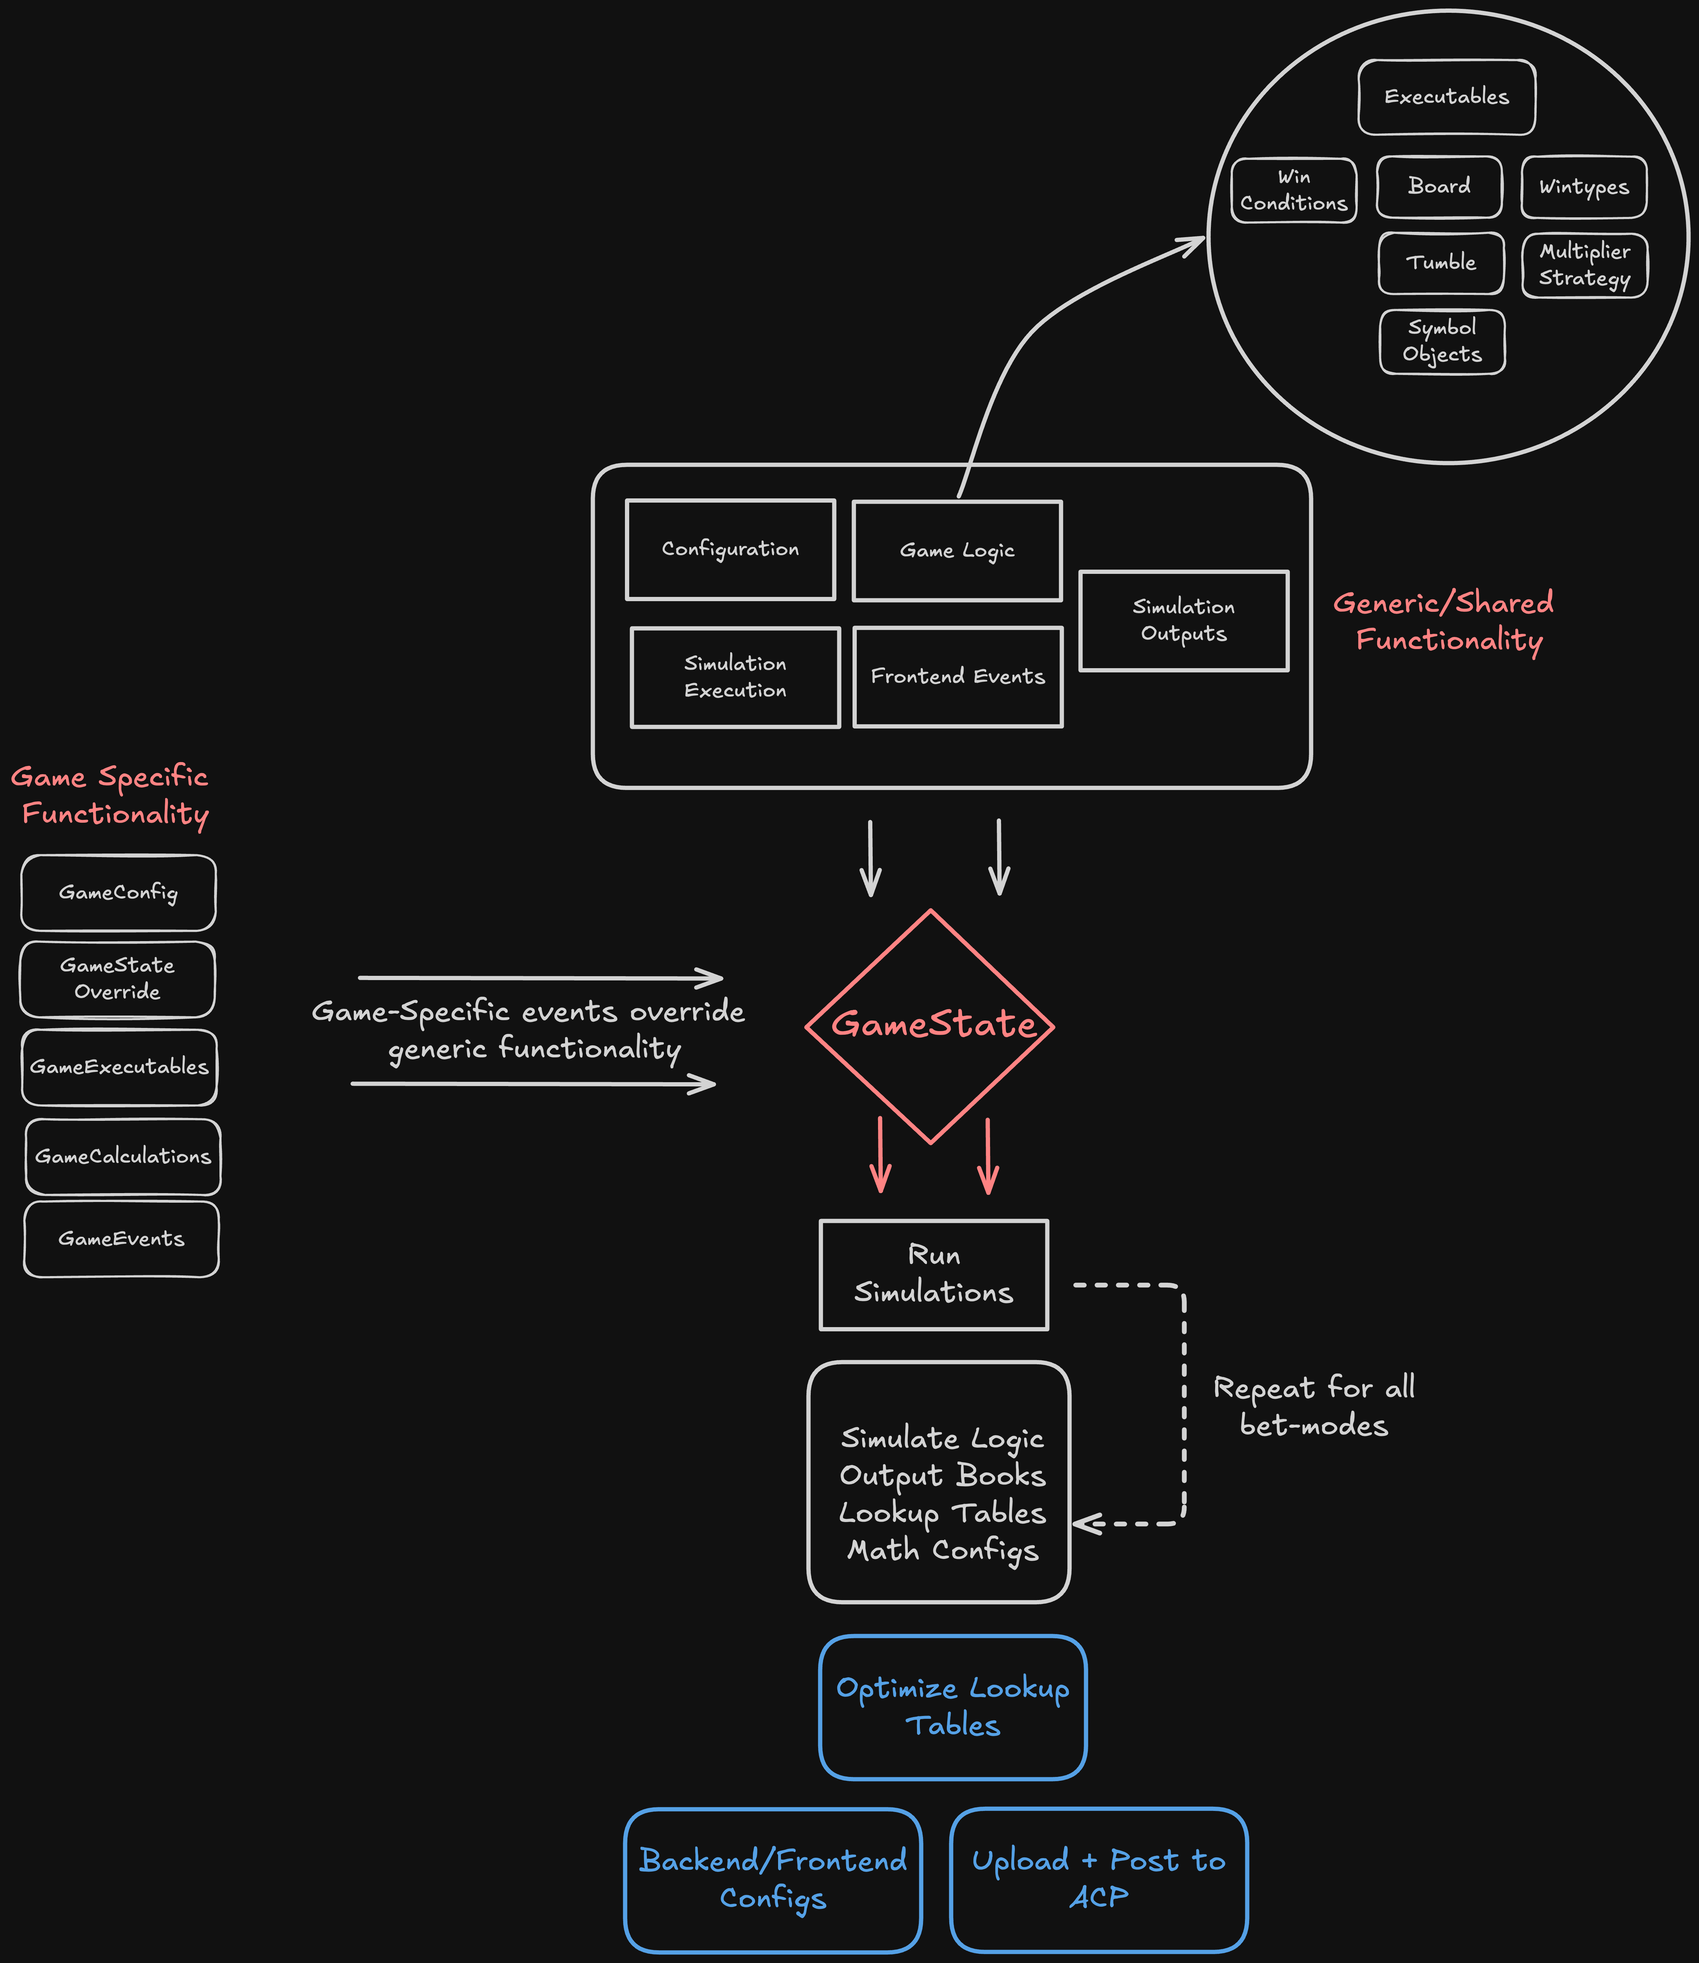
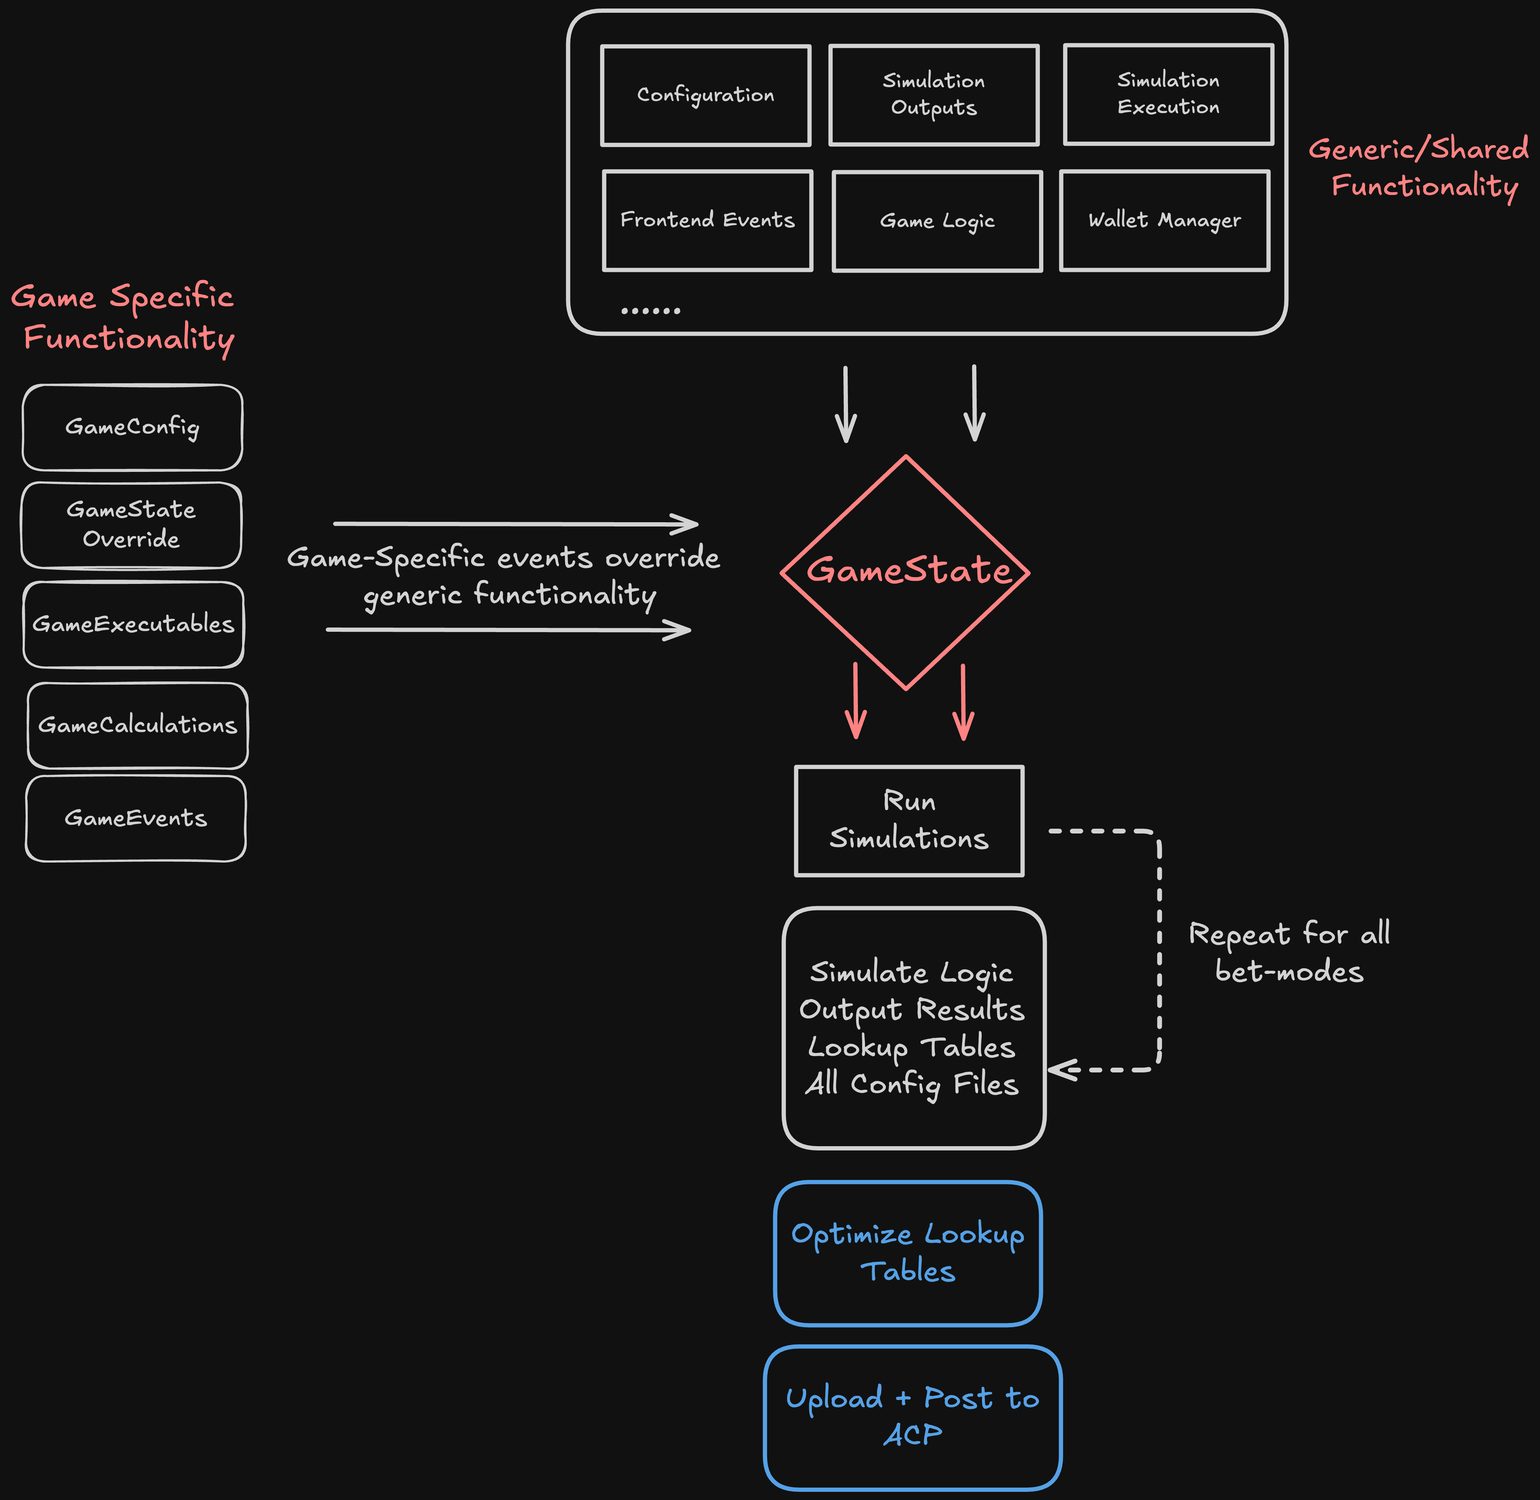
update docs links

diff --git a/utils/decompress_zstd.py b/utils/decompress_zstd.py
@@ -26,5 +26,5 @@ def decompress(input_path: str):
 
 if __name__ == "__main__":
 
-    test_file = "games/0_0_lines/library/books_compressed/books_base.jsonl.zst"
+    test_file = "games/gray/books_compressed/books_Tiki_96.jsonl.zst"
     decompress(test_file)

diff --git a/docs/math_docs/gamestate_section/syms_board_section/symbol_info.md b/docs/math_docs/gamestate_section/syms_board_section/symbol_info.md
@@ -27,15 +27,15 @@ When a new game-board is drawn, a 2D array of symbol objects are generated. At a
     * Within the `GameStateOverride` class, special functions can be applied to a symbol as soon as the object is created. This is done through the abstract function, for example:
 
 ```python
-    def assign_special_sym_function(self):
-        self.special_symbol_functions = {
-            "W": [self.assign_mult_property],
-        }
-    def assign_mult_property(self, symbol):
-        multiplier_value = get_random_outcome(
-            self.get_current_distribution_conditions()["mult_values"][self.gametype]
-        )
-        symbol.assign_attribute({"multiplier": multiplier_value})
+def assign_special_sym_function(self):
+    self.special_symbol_functions = {
+        "W": [self.assign_mult_property],
+    }
+def assign_mult_property(self, symbol):
+    multiplier_value = get_random_outcome(
+        self.get_current_distribution_conditions()["mult_values"][self.gametype]
+    )
+    symbol.assign_attribute({"multiplier": multiplier_value})
 ```
     
     `assign_special_sym_function()` is called when the `GameState` is initially created. In this example, we are assigning a multiplier value to any new wild ('W') which is created. Any action defined within `self.special_symbol_functions` with the format `{<name>: @callable_func}` will be assigned to the `special_functions` property.
@@ -51,20 +51,20 @@ When a new game-board is drawn, a 2D array of symbol objects are generated. At a
 
 In addition to the application of `special_functions`, attributes are an important characteristic of symbol objects, particularly for checking if there are any special symbols on the game-board which require additional actions. For example if we want to check if a given symbol has a `prize` or `multiplier` attribute:
 ```python
-    if self.board[reel][row].check_attribute('prize','multiplier'):
-        ...
+if self.board[reel][row].check_attribute('prize','multiplier'):
+    ...
 ```
 
 The `check_attribute` function will return a `boolean` value if the given attribute exists and its value is not `False`. I.e.:
 ```python
-    if symbol.check_attribute('prize'):
-        win += symbol.get_attribute('prize')
+if symbol.check_attribute('prize'):
+    win += symbol.get_attribute('prize')
 ```
 
 Furthermore we can assign properties to a symbol using the `assign_attribute` method. As an example, if we have a game where we have a special symbol denoted by the `enhance` tag. Where the effect of this symbol is to add a `multiplier` value to any active `Wild` symbols. In the `gamestate` we could preform the following actions:
 ```python
-    if len(self.special_symbols_on_board['enhance']) > 0:
-        for sym in self.special_symbols_on_board[wild]:
-            mult_val = get_random_outcomes(self.config.mult_values[self.gametype])
-            self.board[sym['reel']][sym['row']].assign_attribute({'multiplier', mult_val})
+if len(self.special_symbols_on_board['enhance']) > 0:
+    for sym in self.special_symbols_on_board[wild]:
+        mult_val = get_random_outcomes(self.config.mult_values[self.gametype])
+        self.board[sym['reel']][sym['row']].assign_attribute({'multiplier', mult_val})
 ```

diff --git a/docs/math_docs/gamestate_section/configuration_section/config_overview.md b/docs/math_docs/gamestate_section/configuration_section/config_overview.md
@@ -23,16 +23,16 @@ Typically special rules apply when the player enters a freegame. The configurati
 
 Most games will use distinct reelstrips for different game-types. It is commonplace for game-modes to have multiple possible reels per mode. One method of adjusting the overall RTP of a game is to have a multiple reelstrips with varying RTP, which can be selected from a weighted draw when calling `self.create_board_from_reelstrips()`. Reelstrips are stored as a dictionary in the `self.config.reels` object. The reelstrip key and csv file name should be specified:
 ```python
-        reels = {"BR0": "BR0.csv", "FR0": "FR0.csv"}
-        self.reels = {}
-        for r, f in reels.items():
-            self.reels[r] = self.read_reels_csv(str.join("/", [self.reels_path, f]))
+reels = {"BR0": "BR0.csv", "FR0": "FR0.csv"}
+self.reels = {}
+for r, f in reels.items():
+    self.reels[r] = self.read_reels_csv(str.join("/", [self.reels_path, f]))
 ```
 Reelstrip weightings are required [distribution conditions]('gamestate_section/configuration_section/betmode_dist.md/'). An example of using multiple reelstrips for each gametype can be applied as:
 ```python
-    conditions={
-        "reel_weights": {self.basegame_type: {"BR0": 2, "BR1": 1}, self.freegame_type: {"FR0":5, "FR1": 1}},
-    },
+conditions={
+    "reel_weights": {self.basegame_type: {"BR0": 2, "BR1": 1}, self.freegame_type: {"FR0":5, "FR1": 1}},
+},
 ```
 
 
@@ -40,10 +40,10 @@ Reelstrip weightings are required [distribution conditions]('gamestate_section/c
 
 Freegame entry from the basegame or retriggers in the freegame should be specified in the format `{num_scatters: num_spins}`,
 ```python
-    self.freespin_triggers = {
-        self.basegame_type: {3: 10, 4: 15, 5: 20},
-        self.freegame_type: {2: 4, 3: 6, 4: 8, 5: 10},
-    }
+self.freespin_triggers = {
+    self.basegame_type: {3: 10, 4: 15, 5: 20},
+    self.freegame_type: {2: 4, 3: 6, 4: 8, 5: 10},
+}
 ```
 
 
@@ -55,17 +55,17 @@ A symbol is determined to be valid if the name exists either in `self.paytable` 
 
 Winning symbols are determined from the `self.paytable` dictionary object in the game configuration. The expected format is:
 ```python
-    self.paytable = {
-        (kind[int], name[str]): value[float],
-        ...
-    }
+self.paytable = {
+    (kind[int], name[str]): value[float],
+    ...
+}
 ```
 Where `kind` is the number of winning symbols. For cascading games, or other circumstances where multiple winning symbol numbers pay the same about, for example in the [scatter pays example game]('sample_section/sample_games.md') where 13+ symbols pay the same amount, `self.pay_group` can be defined. By then calling `self.paytable = self.convert_range_table(pay_group)` a paytable of the expected format is generated. The format of the pay-group objects (inclusive of both values in the kind-range) is given as:
 ```python
-    self.pay_group = {
-        ((min_kind[int],max_kind[int]), name[str]): value[float],
-        ...
-    }
+self.pay_group = {
+    ((min_kind[int],max_kind[int]), name[str]): value[float],
+    ...
+}
 ```
 
 #### Special symbols 

diff --git a/docs/index.md b/docs/index.md
@@ -3,12 +3,20 @@
 
 ## **Complex Games Made Easy**
 
-The Stake-Engine-SDK is a comprehensive framework designed to simplify the creation, simulation, and optimization of slot games. Whether you're an independent developer or part of a dedicated studio, this SDK empowers you to bring your gaming vision to life with precision and efficiency. By leveraging the Carrot Remote Gaming Server (RGS), developers can seamlessly integrate their games on [Stake.com](https://stake.com), ensuring a smooth and scalable deployment process.
+The Stake Development Kit is a comprehensive framework designed to simplify the creation, simulation, and optimization of slot games. Whether you're an independent developer or part of a dedicated studio, the SDK empowers you to bring your gaming vision to life with precision and efficiency. By leveraging the Carrot Remote Gaming Server (RGS), developers can seamlessly integrate their games on [Stake.com](https://stake.com), facilitating smooth and scalable deployments.
 
 ### **What Does the SDK Offer?**
 
-The SDK is divided into two key components:
+The SDK is an optional software package handling both the client-side rendering of games in-browser, and the generation of static files containing all possible game results.
 
-1. **Math Framework**: A Python-based engine for defining game rules, simulating outcomes, and optimizing win distributions. It generates all necessary backend files, including configuration files, lookup tables, and simulation results.
+1. **Math Framework**: A Python-based engine for defining game rules, simulating outcomes, and optimizing win distributions. It generates all necessary backend and configuration files, lookup tables, and simulation results.
    
 2. **Frontend Framework**: A PixieJS/Svelte-based toolkit for creating visually engaging slot games. This component integrates seamlessly with the math engine's outputs, ensuring consistency between game logic and player experience.
+
+
+## **Stake Engine Game Format Criteria**
+
+For verification, testing and security purposes, games uploaded to Stake Engine must consist of static files. Developers utilizing their own frontend and/or math solutions are welcome to upload compatible file-formats to the Admin Control Panel (ACP). All possible game-outcomes must be contained within compressed game-files, typically separated out by modes. Each outcome must be mapped to a corresponding CSV file summarizing a single game-round by a simulation number, probability of selection, and final payout multiplier. When a betting round is initiated a simulation number is selected at a frequency proportional to the simulation weighting, and the corresponding game events are returned though the */play* API response.
+
+![Below](math_docs/rgs-nbg-im.png)
+

diff --git a/docs/math_home.md b/docs/math_home.md
@@ -1,4 +1,4 @@
-# Stake Engine Software Development Kit
+# Stake Engine - Software Development Kit
 
 ## **Math - SDK**
 
@@ -20,6 +20,15 @@ The Carrot Math SDK is ideal for developers looking to:
 - Optimize game payouts and hit rates without relying on extensive manual calculations.
 - Generate detailed simulation outputs for statistical analysis.
 - Publish games on Stake.com with minimal friction.
+
+
+### **Static File Outputs**
+
+Physical slot-machines (and many of those used in iGaming) generate results in real time by programming game-logic onto the RGS/backend. When a game is requested, a cryptographically secure random number generator selects a random reel-stop position for every active reel, and the game-logic flows from the starting board position. The drawbacks of this method is that since a single reel-strip could easily have 100+ symbols, with typically 5 reels, there are 100^5 (10 billion) unique board combinations.Explicitly calculating game payouts or Return to Player (RTP) is often infeasible, so extensive simulations are used to estimate outcomes. Stake Engine requires all game-outcomes to be known at the time of publication. Storing instructions for all possible game outcomes is impractical. Instead, a subset of results is used to define the game.
+
+These outputs are broken up into two main parts: 1. game logic files and 2. CSV payout summaries. 
+The game-logic files contain an ordered list of critical game details such as symbol names, board positions, payout amounts, winning symbol positions etc... Accompanying each simulation detailed in the game logic files is a CSV entry listing the simulation number, probability of selection, and payout amount. So upon a game round request, the RGS will consult the CSV/lookup table to select a simulation number, then return a JSON response from the game-logic file for this simulation number to the frontend, telling the web-client what to render, while also updating the players wallet with the payout amount. Breaking up these two files also allows us to exactly calculate the games RTP and essential win-distribution statistics at time of publication. 
+
 
 ### **Get Started Today**
 

diff --git a/docs/fe_docs/flowchart.md b/docs/fe_docs/flowchart.md
@@ -121,7 +121,7 @@ An emitterEvent is a json data that `eventEmitter.broadcast(emitterEvent)` or `e
 
 <mark>For a game we have many animations, so sometimes we need to "await" for those animations to finish before going to the next step.</mark>
 
-Conceptually a bookEvent is composed by emitterEvents. <mark>Nevertheless, the flexibility lies in that the [emitterEvents composing a bookEvent can come from multiple different svelte components](#taskBreakdownImg).</mark> This way we can achieve and control the interactions and timing between different svelte components for the same bookEvent, ultimately, to achieve our games.
+Conceptually a bookEvent is composed by emitterEvents. <mark>Nevertheless, the flexibility lies in that the emitterEvents composing a bookEvent can come from multiple different svelte components.</mark> This way we can achieve and control the interactions and timing between different svelte components for the same bookEvent, ultimately, to achieve our games.
 
 ```
 // bookEventHandlerMap.ts - Example of an emitterEvent
@@ -182,7 +182,7 @@ context.eventEmitter.subscribeOnMount({
 
 ## emitterEventHandlerMap
 
-An object that the key is `emitterEvent.type` and value is an `emitterEventHandler`. We can find this object in each component. For example, [apps/lines/src/components/FreeSpinCounter.svelte](/apps/lines/src/components/FreeSpinCounter.svelte).
+An object that the key is `emitterEvent.type` and value is an `emitterEventHandler`. We can find this object in each component. For example, (`/apps/lines/src/components/FreeSpinCounter.svelte`).
 
 - <mark>Each emitterEventHandler can do a lot or a little, but we prefer each emitterEventHandler just doing a minimum job to achieve the duty that is described by its type. This way we follow the [Single Responsibility Principle of SOLID](https://www.digitalocean.com/community/conceptual-articles/s-o-l-i-d-the-first-five-principles-of-object-oriented-design#single-responsibility-principle).</mark> For example, `freeSpinCounterShow` just shows this component and does nothing more.
 

diff --git a/docs/fe_docs/context.md b/docs/fe_docs/context.md
@@ -5,6 +5,7 @@
 - [ContextXstate](#contextXstate)
 - [ContextApp](#contextApp)
 
+<a name="contextEventEmitter"></a>
 [svelte-context](https://svelte.dev/docs/svelte/context) is a useful feature from svelte especially when a shared state requires some inputs/types to create. Here it shows the structure of context of sample game `/apps/lines`. As showed before, `setContext()` is called at entry level component. For example, `apps/lines/src/routes/+page.svelte` or `apps/lines/src/stories/ComponentsGame.stories.svelte`. It sets four major contexts from the packages by this:
 
 ```
@@ -26,7 +27,7 @@ export const setContext = () => {
 
 ## ContextEventEmitter
 
-`eventEmitter` is created by `packages/utils-event-emitter/src/createEventEmitter.ts`. We have covered eventEmitter in the [previous content](#eventEmitter).
+`eventEmitter` is created by `packages/utils-event-emitter/src/createEventEmitter.ts`. We have covered eventEmitter in the previous content.
 
 <a name="contextLayout"></a>
 

diff --git a/docs/fe_docs/file_struct.md b/docs/fe_docs/file_struct.md
@@ -20,9 +20,7 @@ root
      |_pixi-*
 ```
 
-<a name="apps"></a>
-
-## [/apps](/apps)
+## /apps
 
 For each game, it has an individual folder in the apps, for example `/apps/lines`.
 
@@ -83,7 +81,7 @@ pnpm run dev --filter=lines
 
 <a name="packages"></a>
 
-## [/packages](/packages)
+## /packages
 
 For every TurboRepo local package, you can import and use them in an app or in another local package directly without publishing them to [npm](https://www.npmjs.com). <mark>Our codebase benefits considerably from a monorepo because it brings reusability, readability, maintainability, code splitting and so on.</mark> Here is an example of importing local packages with `workspace:*` in `/apps/lines/package.json`:
 

diff --git a/docs/fe_docs/dependencies.md b/docs/fe_docs/dependencies.md
@@ -1,6 +1,6 @@
 # Dependencies
 
-Besides basic web skills (html, css and javascript), here it shows a list of [npm](https://www.npmjs.com) dependencies of this repo. It would be great to start with understanding them before kicking off [Get Started](#getStarted).
+Besides basic web skills (html, css and javascript), here it shows a list of [npm](https://www.npmjs.com) dependencies of this repo. It would be great to start with understanding them before kicking off [Get Started](get_started.md).
 
 - pixijs: https://www.npmjs.com/package/pixi.js and [more...](https://pixijs.download/release/docs/index.html)
 - svelte: https://www.npmjs.com/package/svelte and [more...](https://svelte.dev/docs/svelte/overview)

diff --git a/docs/math_docs/optimization_section/optimization_algorithm.md b/docs/math_docs/optimization_section/optimization_algorithm.md
@@ -1,6 +1,6 @@
 # Optimizing win distributions with iterative weighted sampling
 
-A discussion of how the provided optimization algorithm operates can be viewed by [downloading this paper](../distribution_optimization.pdf).
+A discussion of how the provided optimization algorithm operates can be viewed by [downloading this paper](../../distribution_optimization.pdf).
 
 The aforementioned algorithm is implemented in the Rust programming language, this program compiles down to a binary executable. If the program is being run for the first time, or if there are modifications made to the *main.rs* file, the binary should be rebuilt using:
 ```sh
